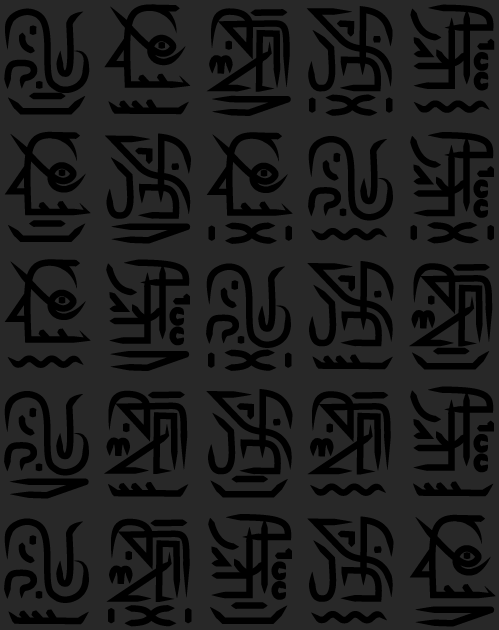
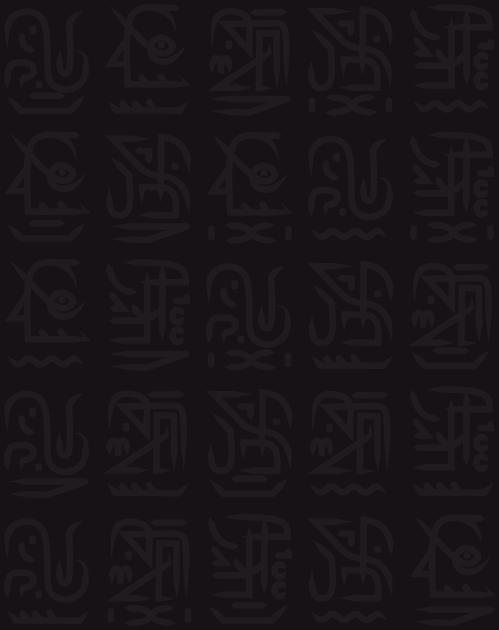
finished cleanerer index

diff --git a/index.html b/index.html
@@ -28,10 +28,75 @@
     <script src="website/js/header.js"></script>
     <script src="website/js/konami.js"></script>
     <script src="js/index.js"></script>
+    <style>
+    .caret {
+      animation: caret-fade infinite 1s;
+    }
+    @keyframes caret-fade {
+      0% {
+        opacity: 1;
+      }
+      50% {
+        opacity: 0;
+      }
+      100% {
+        opacity: 1;
+      }
+    }
+
+    .section-block {
+      width: 600px;
+      margin:auto;
+      padding: 15px;
+      padding-top: 0px;
+      padding-bottom: 20px;
+      border-radius: 10px;
+    }
+
+    @media only screen and (max-width: 700px) {
+      .section-block {
+        width: 100%;
+        padding: 0px;
+        padding-top: 0px;
+        padding-bottom: 20px;
+        border-radius: 0px;
+      }
+    }
+
+    .head {
+      opacity: 0.1;
+      transition: 0.5s;
+      width: 100px;
+      display: block;
+      margin: auto;
+    }
+    .head:hover {
+        opacity: 1;
+    }
+    .head .face {
+      fill:#fff;
+    }
+    .head .circle {
+      fill: #333;
+    }
+    .head:hover .circle {
+      fill: #7100d3;
+    }
+
+    </style>
 
     <div class="split"></div>
 
-    <div class="screen black text-white">
+    <div class="text-white center" style="font-size:30px">
+      Andrés Movilla.
+        <svg class="caret" style="transform: translate(0,10%);fill:white;"width=15 height=50 xmlns="http://www.w3.org/2000/svg" viewBox="0 0 1 2">
+          <polygon points="0 0 100 0 100 250 0 250"/>
+        </svg>
+    </div>
+
+    <div class="split"></div>
+
+    <div class="black text-white section-block">
       <br>
 
       <div class="block sub1 center">
@@ -59,7 +124,7 @@
 
     <div class="split"></div>
 
-    <div class="screen">
+    <div class="white section-block">
       <br>
 
       <div class="block sub1 center">
@@ -71,7 +136,7 @@
 
     <div class="split"></div>
 
-    <div class="screen purple darker text-white">
+    <div class="purple darker text-white section-block">
       <br>
       <div class="block sub1 center">
         Five years of experience in game development.
@@ -81,7 +146,7 @@
 
     <div class="split"></div>
 
-    <div class="screen red darker text-white">
+    <div class="red darker text-white section-block">
       <br>
       <div class="block sub1 center">
         Seven years of experience in video editing using Final Cut Pro.
@@ -95,12 +160,12 @@
 
     <div class="split"></div>
 
-    <div class="screen blue lighter text-white">
+    <div class="blue lighter text-white section-block">
       <br>
 
-      <div class="block sub5 center hide-on-limit1">
+      <div class="block sub5 center">
         <a href="https://twitter.com/andremov">
-          <svg xmlns="http://www.w3.org/2000/svg" class="enlarge" width="20%" viewBox="0 0 24 24" style="filter: invert(1);">
+          <svg xmlns="http://www.w3.org/2000/svg" class="enlarge" width="60%" viewBox="0 0 25 25" style="filter: invert(1);">
             <path d="M24 4.557c-.883.392-1.832.656-2.828.775 1.017-.609 1.798-1.574 2.165-2.724-.951.564-2.005.974-3.127
             1.195-.897-.957-2.178-1.555-3.594-1.555-3.179 0-5.515 2.966-4.797 6.045-4.091-.205-7.719-2.165-10.148-5.144-1.29
             2.213-.669 5.108 1.523 6.574-.806-.026-1.566-.247-2.229-.616-.054 2.281 1.581 4.415 3.949 4.89-.693.188-1.452.232-2.224.084.626
@@ -110,9 +175,9 @@
         </a>
       </div>
 
-      <div class="block sub5 center hide-on-limit1">
+      <div class="block sub5 center">
         <a href="https://instagram.com/andremov">
-          <svg xmlns="http://www.w3.org/2000/svg" class="enlarge" width="20%" viewBox="0 0 24 24" style="filter: invert(1);">
+          <svg xmlns="http://www.w3.org/2000/svg" class="enlarge" width="60%" viewBox="0 0 25 25" style="filter: invert(1);">
             <path d="M12 2.163c3.204 0 3.584.012 4.85.07 3.252.148 4.771 1.691 4.919 4.919.058
             1.265.069 1.645.069 4.849 0 3.205-.012 3.584-.069 4.849-.149 3.225-1.664 4.771-4.919
             4.919-1.266.058-1.644.07-4.85.07-3.204 0-3.584-.012-4.849-.07-3.26-.149-4.771-1.699-4.919-4.92-.058-1.265-.07-1.644-.07-4.849
@@ -128,9 +193,9 @@
         </a>
       </div>
 
-      <div class="block sub5 center hide-on-limit1">
+      <div class="block sub5 center">
         <a href="https://github.com/andremov">
-          <svg xmlns="http://www.w3.org/2000/svg" class="enlarge" width="20%" viewBox="0 0 24 24" style="filter: invert(1);">
+          <svg xmlns="http://www.w3.org/2000/svg" class="enlarge" width="60%" viewBox="0 0 25 25" style="filter: invert(1);">
             <path d="M12 0c-6.626 0-12 5.373-12 12 0 5.302 3.438 9.8 8.207
             11.387.599.111.793-.261.793-.577v-2.234c-3.338.726-4.033-1.416-4.033-1.416-.546-1.387-1.333-1.756-1.333-1.756-1.089-.745.083-.729.083-.729
             1.205.084 1.839 1.237 1.839 1.237 1.07 1.834 2.807 1.304 3.492.997.107-.775.418-1.305.762-1.604-2.665-.305-5.467-1.334-5.467-5.931
@@ -142,9 +207,9 @@
         </a>
       </div>
 
-      <div class="block sub5 center hide-on-limit1">
+      <div class="block sub5 center">
         <a href="https://www.youtube.com/channel/UC49mIcUmHztnqVm9n9aw7kA">
-            <svg xmlns="http://www.w3.org/2000/svg" class="enlarge" width="20%" viewBox="0 0 24 24" style="filter: invert(1);">
+            <svg xmlns="http://www.w3.org/2000/svg" class="enlarge" width="60%" viewBox="0 0 25 25" style="filter: invert(1);">
               <path d="M19.615 3.184c-3.604-.246-11.631-.245-15.23 0-3.897.266-4.356 2.62-4.385
               8.816.029 6.185.484 8.549 4.385 8.816 3.6.245 11.626.246 15.23 0 3.897-.266
               4.356-2.62 4.385-8.816-.029-6.185-.484-8.549-4.385-8.816zm-10.615 12.816v-8l8
@@ -153,11 +218,10 @@
         </a>
       </div>
 
-      <div class="block sub5 center hide-on-limit1">
+      <div class="block sub5 center">
         <a href="mailto:amovilla1103@gmail.com">
-          <svg xmlns="http://www.w3.org/2000/svg" class="enlarge" width="20%" viewBox="0 0 24 24" style="filter: invert(1);">
-            <path d="M12 12.713l-11.985-9.713h23.971l-11.986 9.713zm-5.425-1.822l-6.575-5.329v12.501l6.575-7.172zm10.85
-            0l6.575 7.172v-12.501l-6.575 5.329zm-1.557 1.261l-3.868 3.135-3.868-3.135-8.11 8.848h23.956l-8.11-8.848z"/>
+          <svg xmlns="http://www.w3.org/2000/svg" class="enlarge" width="60%" viewBox="0 0 25 25" style="filter: invert(1);">
+            <path d="M0 3v18h24v-18h-24zm21.518 2l-9.518 7.713-9.518-7.713h19.036zm-19.518 14v-11.817l10 8.104 10-8.104v11.817h-20z"/>
           </svg>
         </a>
       </div>
@@ -166,7 +230,26 @@
     </div>
 
     <div class="split"></div>
+    <div class="split"></div>
 
+    <svg class="head" xmlns="http://www.w3.org/2000/svg" viewBox="0 0 751.1 751.1">
+      <path class="circle" d="M375.55,748.6q154.55,0,263.8-109.25T748.6,375.55q0-154.55-109.25-263.8T375.55,2.5Q221,2.5,111.75,111.75T2.5,375.55q0,154.55,109.25,263.8T375.55,748.6Z"/>
+      <g class="face">
+        <path d="M325.15,596.35a3.94,3.94,0,0,1-.9-.1,4,4,0,0,1-3-4.81c1.19-5.08,2.18-9.77,3-13.93a89.89,89.89,0,0,0,1.88-20.64c-.72-17.64-8.69-28.49-24.35-33.19-17.29-5.17-45.16-8-82.84-8.38-22.2-.23-47.65.42-75.64,1.94-14.63.81-25.83,2.84-33.29,6-6.87,3-11.26,7.14-13.45,12.81-2,5.27-2.74,11.7-2.1,19.11A126.68,126.68,0,0,0,98,574.42a4,4,0,0,1-7.76,2,133.15,133.15,0,0,1-3.81-20.5c-.74-8.63.13-16.26,2.61-22.67,3-7.68,8.93-13.49,17.75-17.28,8.45-3.63,20.23-5.81,36-6.67,28.16-1.53,53.79-2.19,76.16-2,38.43.4,67.05,3.34,85.06,8.72,19.06,5.72,29.17,19.35,30.05,40.52a97.73,97.73,0,0,1-2,22.47c-.81,4.25-1.83,9-3,14.25A4,4,0,0,1,325.15,596.35Z"/>
+        <path d="M416.6,589.25a3.49,3.49,0,0,1-3.44-2.87c-.13-.7-.87-3.87-3.65-15a75.27,75.27,0,0,1-2.61-17c-.11-14.06,7.32-25.09,22.08-32.78,8.49-4.43,20.54-8.73,35.82-12.78a402.11,402.11,0,0,1,51.7-10c44.93-5.77,83.43-4.29,114.44,4.4a3.39,3.39,0,0,1,1,.47,97.77,97.77,0,0,0,9.17,5.35l.15.09a22.23,22.23,0,0,1,7.5,6.7c3.62,5.41,5.32,16.63,5.32,35.26a3.5,3.5,0,0,1-7,0c0-20.82-2.26-28.57-4.16-31.4a15.21,15.21,0,0,0-5.15-4.49c-3.68-1.94-6.8-3.75-9.27-5.39-30-8.3-67.39-9.66-111.12-4.05a398.43,398.43,0,0,0-50.8,9.81c-14.79,3.92-26.35,8-34.38,12.22-12.42,6.47-18.41,15.15-18.32,26.52a68.55,68.55,0,0,0,2.4,15.33c3.07,12.24,3.61,14.67,3.74,15.42a3.49,3.49,0,0,1-2.81,4.07A3.52,3.52,0,0,1,416.6,589.25Z"/>
+        <path d="M331.06,555.8a4,4,0,0,1-1.51-7.7c13.32-5.44,23.55-8.65,31.28-9.81,14.33-2.17,31.06-.81,49.72,4a4,4,0,1,1-2,7.74c-17.61-4.57-33.26-5.88-46.52-3.86-7,1-16.9,4.17-29.45,9.29A3.8,3.8,0,0,1,331.06,555.8Z"/>
+        <path d="M291,344.65a3.5,3.5,0,0,1-2.4-6,69.1,69.1,0,0,1,9.7-7.95c5-3.19,11.52-5,19.5-5.5,7.36-.42,16.85.32,28.22,2.19,6.08,1,14.67,2.45,25.51,4.34,5,.66,11.72,1.64,20,2.9a80.8,80.8,0,0,0,16.62.57c1.62-.13,10.94-.72,28.49-1.8,13.87-.86,22.52-1.58,25.7-2.15a3.5,3.5,0,1,1,1.24,6.88c-3.5.63-12.17,1.37-26.51,2.25-17.25,1.06-26.78,1.67-28.31,1.8a88.42,88.42,0,0,1-18.18-.62c-8.42-1.27-15.14-2.24-20.08-2.9l-.14,0c-10.85-1.89-19.44-3.35-25.51-4.35-10.87-1.78-19.85-2.49-26.69-2.11S306,334,302,336.55a65.06,65.06,0,0,0-8.69,7.14A3.47,3.47,0,0,1,291,344.65Z"/>
+        <path d="M404,381.26c-1.36,0-2.63,0-3.8-.12-1.57-.09-5.19-.65-18-4.38-11.07-3.21-16.11-4-18.38-4.11-7-.35-18.23,1.3-33.54,4.91a3.5,3.5,0,0,1-1.6-6.82c16.17-3.81,27.77-5.47,35.48-5.09,3.9.18,10.44,1.62,20,4.39,11.82,3.43,15.43,4,16.54,4.12a84.47,84.47,0,0,0,14.31-.59,88.69,88.69,0,0,0,15-2.77,3.5,3.5,0,0,1,2,6.7,94.65,94.65,0,0,1-16.21,3A108.8,108.8,0,0,1,404,381.26Z"/>
+        <path d="M304.05,468.35q5.85-5,5.6-10.75-3.45-6.9-17.8-15.55-15.64-9.49-24.85-7.5a115,115,0,0,1-18,6.3q-4.35,1.2-21.35,5.4-6.41,2.36-19.85,2.1-17-.3-25.9,1-4.4,1.15-25.35,5.55-10.76,2.3-12.55,4.35a14.64,14.64,0,0,0-3.1,5,7.69,7.69,0,0,0,.25,5.1,144.55,144.55,0,0,0,34,14,113.13,113.13,0,0,0,27.2,3.85A252.1,252.1,0,0,0,235.9,482l24.9-5.4a105.34,105.34,0,0,1,18.2-1q9.86.1,13.55-1.05A32.43,32.43,0,0,0,304.05,468.35Z"/>
+        <path d="M309.65,457.6q.25,5.75-5.6,10.75a32.43,32.43,0,0,1-11.5,6.15q-3.71,1.15-13.55,1.05a105.34,105.34,0,0,0-18.2,1L235.9,482a252.1,252.1,0,0,1-33.55,5.25,113.13,113.13,0,0,1-27.2-3.85,144.55,144.55,0,0,1-34-14,7.69,7.69,0,0,1-.25-5.1,14.64,14.64,0,0,1,3.1-5q1.8-2.06,12.55-4.35,21-4.39,25.35-5.55,9-1.31,25.9-1,13.45.25,19.85-2.1,17-4.2,21.35-5.4a115,115,0,0,0,18-6.3q9.19-2,24.85,7.5Q306.21,450.71,309.65,457.6Z"/>
+        <path d="M593.7,450.05q3-3.6,5.95-14.15-3-10.84-15.95-15.4a52.47,52.47,0,0,0-20.4-2.75q-31.6,2.36-68.55,15.35l-22.5,8.3q-9.5,3.5-11.95,3.1a39.48,39.48,0,0,1-7.6-2.2,14.06,14.06,0,0,0-6.9-.55q-4.35.64-10,6.15l-4.75,5.35.55,2.45a14.14,14.14,0,0,0,4.25,5.5q10,8.35,35.95,10.05,20.15-1.46,42.05-4.1,17.05-2.06,22.7-3.1a37.1,37.1,0,0,0,8.35-4.1,112.43,112.43,0,0,1,10.85-5.85q15.5-6.9,33-1.8A6.41,6.41,0,0,0,593.7,450.05Z"/>
+        <path d="M431.05,453.25l4.75-5.35q5.65-5.5,10-6.15a14.06,14.06,0,0,1,6.9.55,39.48,39.48,0,0,0,7.6,2.2q2.44.4,11.95-3.1l22.5-8.3q36.94-13,68.55-15.35a52.47,52.47,0,0,1,20.4,2.75q12.9,4.54,15.95,15.4-2.89,10.55-5.95,14.15a6.41,6.41,0,0,1-5,2.25q-17.44-5.1-33,1.8A112.43,112.43,0,0,0,544.9,460a37.1,37.1,0,0,1-8.35,4.1q-5.65,1.05-22.7,3.1-21.9,2.66-42.05,4.1-25.95-1.69-35.95-10.05a14.14,14.14,0,0,1-4.25-5.5Z"/>
+        <path d="M588.2,199.3q14.14-9.11,12.6-21.3-1.6-12.9-16.15-15.95-10.7-2.2-23.35.95,1.8-11.81-2.6-18.45-3.56-5.3-19.9-18.05-12.79-10-65.95-40.25L422.3,58a32,32,0,0,0,.4,8,83.46,83.46,0,0,0,7.1,22.55q-48.1-26.25-77.1-28.25-9.1-.6-15.15,1.25l-4.25,2,17.55,8.55Q368,81.45,365.8,85.5q-91.3-2.25-146.35,24.8-19.3,9.49-31,21.1-9.15,9.15-9.65,14.6-.6,6.65,2.4,7.65a22.15,22.15,0,0,0,3.35.65,11.81,11.81,0,0,1,4.25,1.7q-.5.45-12.65,5.75A123.65,123.65,0,0,0,152.8,174.9q-34.25,24.65-49.5,73.6-3.1,8.14-3.6,29.4-.26,10.61.1,19.6L92.7,318q-7.5,23.25-9.4,37-1.45,10.65-1.7,31.7a434.72,434.72,0,0,0,2,48.45Q90,498.86,113.8,499.5a51.37,51.37,0,0,0,7.1.1q3.55-.86,6.15-6.05,6.2-12.26,13.25-64.05a311.05,311.05,0,0,0,.3-50.6l-2.3-21.4a49.42,49.42,0,0,1,1.7-11.45,109.14,109.14,0,0,1,12.7-29.75Q182,267.45,256.3,229q34.4,22.8,85.15,27.2,25.35,2.21,43.85-.2l10.65.65a263.16,263.16,0,0,0,27.9-.6q46.09-3.35,83.9-20.55a98.37,98.37,0,0,1,23.55,16.8,121.16,121.16,0,0,1,17.5,22.1q6.19,9.8,15.9,28.6,15.6,30.35,18.95,36.55,7.76,20.15,13.6,48.5,3.3,16.09,8.2,45.25,4.31,23.55,8.5,33.4,5.55,12.94,14.35,12.8,19.85-4.69,32.75-61.35a387.81,387.81,0,0,0,7.55-46.75q2.35-22.84,1.6-37.9A194.46,194.46,0,0,0,660,280.35q-3-8.85-7.25-18.65t-5.9-13.2Q639.6,232,606,217.3q-10.5-4.55-22.4-8.4l-9.8-2.9,4.55-1.65A58.26,58.26,0,0,0,588.2,199.3Z"/>
+        <path d="M103.3,248.5q-3.1,8.14-3.6,29.4-.26,10.61.1,19.6L92.7,318q-7.5,23.25-9.4,37-1.45,10.65-1.7,31.7a434.72,434.72,0,0,0,2,48.45Q90,498.86,113.8,499.5a51.37,51.37,0,0,0,7.1.1q3.55-.86,6.15-6.05,6.2-12.26,13.25-64.05a311.05,311.05,0,0,0,.3-50.6l-2.3-21.4a49.42,49.42,0,0,1,1.7-11.45,109.14,109.14,0,0,1,12.7-29.75Q182,267.45,256.3,229q34.4,22.8,85.15,27.2,25.35,2.21,43.85-.2l10.65.65a263.16,263.16,0,0,0,27.9-.6q46.09-3.35,83.9-20.55a98.37,98.37,0,0,1,23.55,16.8,121.16,121.16,0,0,1,17.5,22.1q6.19,9.8,15.9,28.6,15.6,30.35,18.95,36.55,7.76,20.15,13.6,48.5,3.3,16.09,8.2,45.25,4.31,23.55,8.5,33.4,5.55,12.94,14.35,12.8,19.85-4.69,32.75-61.35a387.81,387.81,0,0,0,7.55-46.75q2.35-22.84,1.6-37.9A194.46,194.46,0,0,0,660,280.35q-3-8.85-7.25-18.65t-5.9-13.2Q639.6,232,606,217.3q-10.5-4.55-22.4-8.4l-9.8-2.9,4.55-1.65a58.26,58.26,0,0,0,9.85-5q14.14-9.11,12.6-21.3-1.6-12.9-16.15-15.95-10.7-2.2-23.35.95,1.8-11.81-2.6-18.45-3.56-5.3-19.9-18.05-12.79-10-65.95-40.25L422.3,58a32,32,0,0,0,.4,8,83.46,83.46,0,0,0,7.1,22.55q-48.1-26.25-77.1-28.25-9.1-.6-15.15,1.25l-4.25,2,17.55,8.55Q368,81.45,365.8,85.5q-91.3-2.25-146.35,24.8-19.3,9.49-31,21.1-9.15,9.15-9.65,14.6-.6,6.65,2.4,7.65a22.15,22.15,0,0,0,3.35.65,11.81,11.81,0,0,1,4.25,1.7q-.5.45-12.65,5.75A123.65,123.65,0,0,0,152.8,174.9Q118.56,199.55,103.3,248.5Z"/>
+      </g>
+    </svg>
+
+    <div class="split"></div>
 
   </body>
 

diff --git a/css/index.css b/css/index.css
@@ -1,5 +1,6 @@
 body {
     font-size: 18px;
+    background-image: url("../website/assets/runes_black.png");
 }
 .screen {
   display: block;
@@ -26,6 +27,4 @@ body {
 
 .split {
   height: 60px;
-  background-image: url("../website/assets/runes_black.png");
-  filter:brightness(2);
 }

diff --git a/website/css/block.css b/website/css/block.css
@@ -70,7 +70,7 @@
 }
 
 .block.sub5 {
- width: 19.5%;
+ width: 19%;
 }
 
 .block.sub6 {
